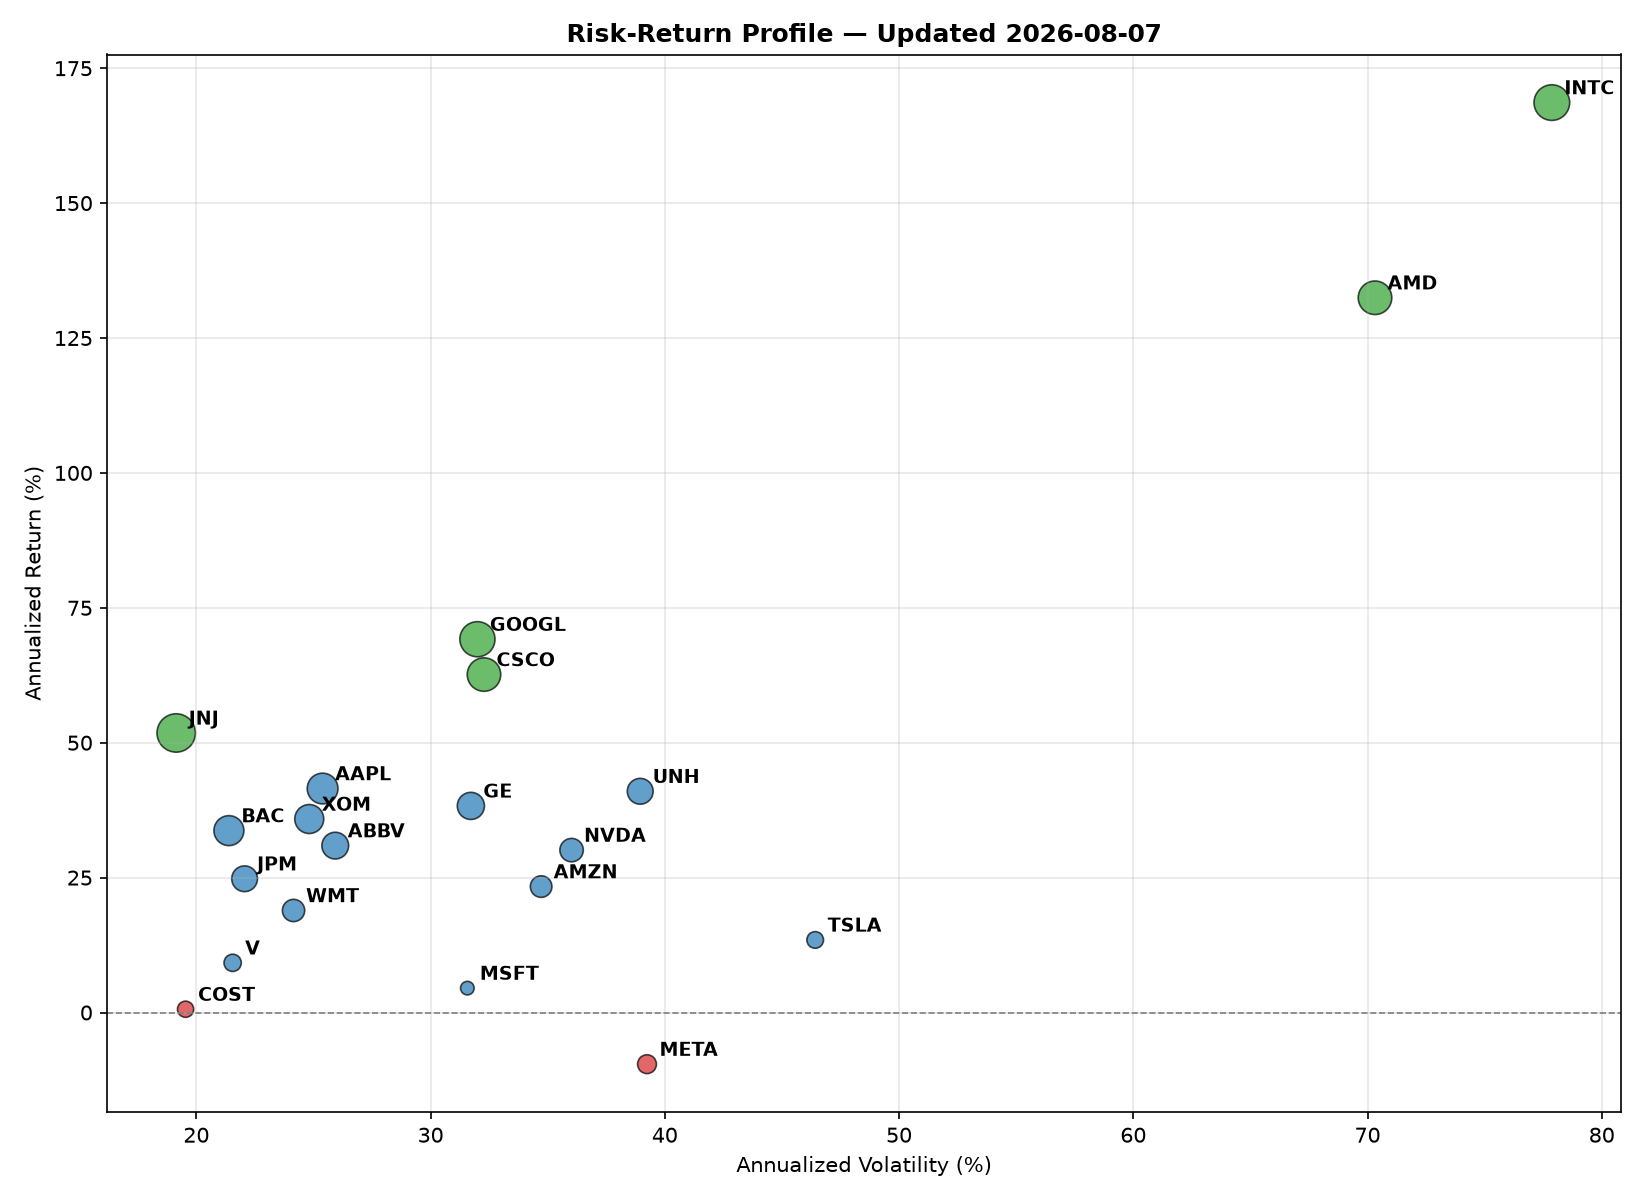
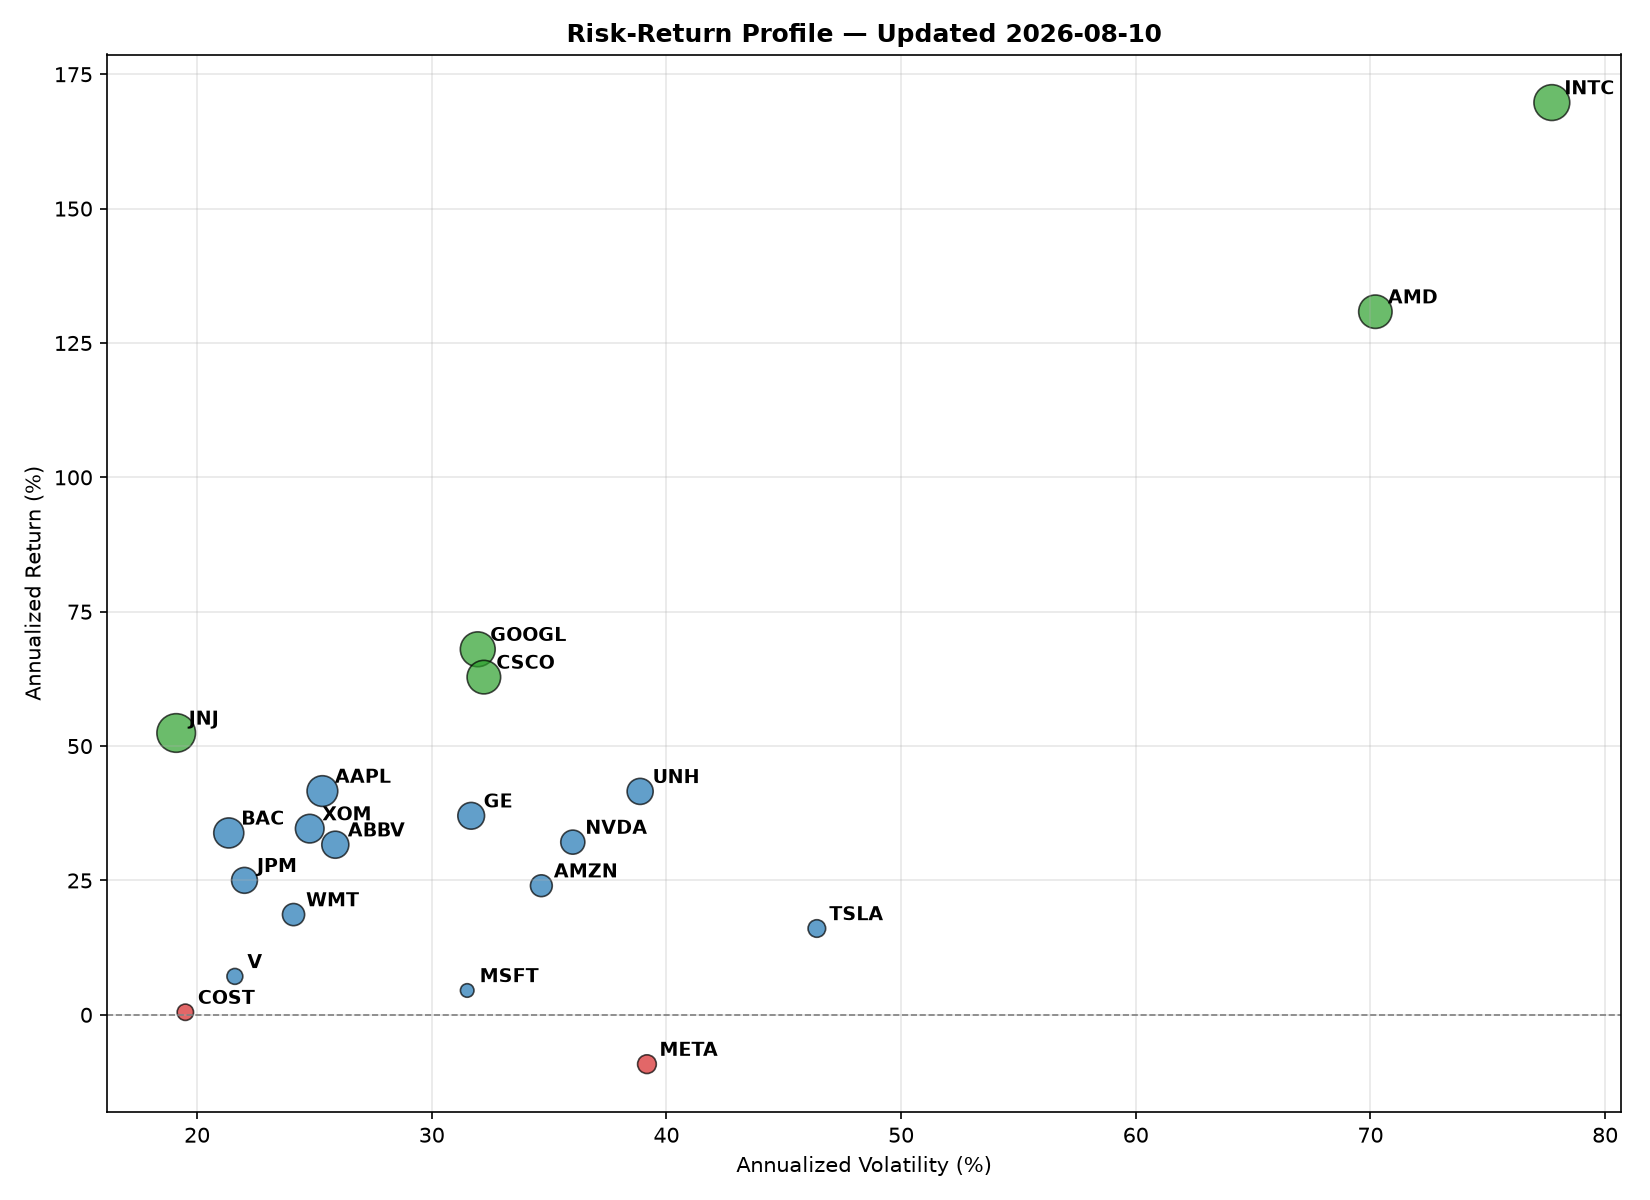
Automated daily update: prices, metrics, and charts

diff --git a/SNAPSHOT.md b/SNAPSHOT.md
@@ -1,8 +1,8 @@
-# Daily Risk Snapshot — 2026-08-06
+# Daily Risk Snapshot — 2026-08-07
 
-**Best mover:** MSFT (+2.54%)
-**Worst mover:** UNH (-2.13%)
-**Top risk-adjusted performer (trailing window):** JNJ (Sharpe 2.5)
+**Best mover:** TSLA (+2.83%)
+**Worst mover:** V (-2.15%)
+**Top risk-adjusted performer (trailing window):** JNJ (Sharpe 2.53)
 
 **No new anomaly flags today.**
 
